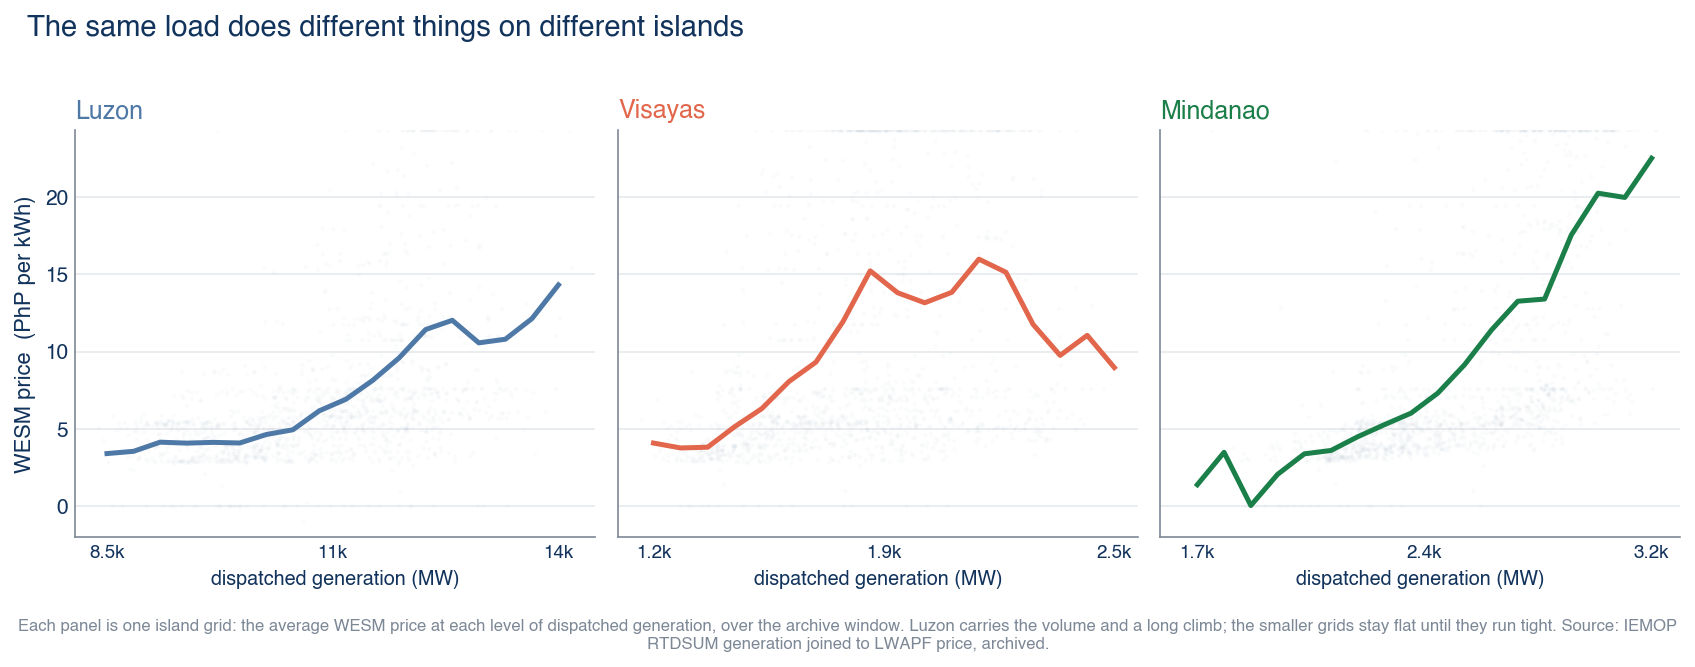
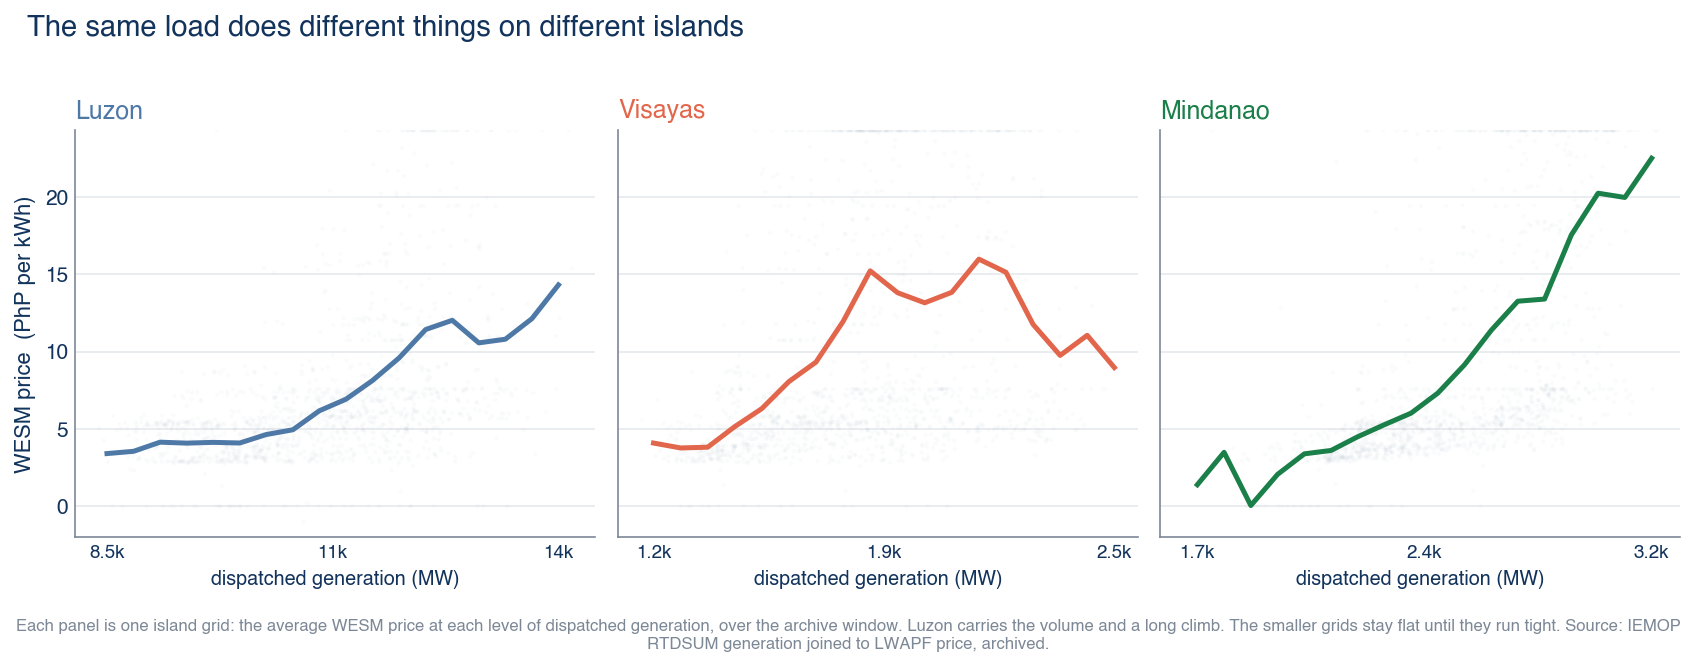
Deslop figure captions: split semicolons into sentences, re-render

Changed region(s): [[0.0, 0.9295, 1.0, 0.9595]]

diff --git a/scripts/price_shape_gif.py b/scripts/price_shape_gif.py
@@ -79,7 +79,7 @@ def main():
                      fontsize=13.5, color=vz.NAVY, loc="left")
         vz.tufte(ax, grid="y")
         vz.caption(fig,
-                   "Each faint dot is one five-minute interval on the Luzon grid; the "
+                   "Each faint dot is one five-minute interval on the Luzon grid. The "
                    "line is the average price at each load. A data center adds the "
                    "same megawatts every hour, but when the grid has room the price "
                    f"hardly notices and when it is full the same {DC_MW} MW shoves it "

diff --git a/scripts/sual_margin_gif.py b/scripts/sual_margin_gif.py
@@ -75,7 +75,7 @@ def main():
         vz.caption(fig,
                    "Sual's two 647 MW units are the largest single contingencies on "
                    "the Luzon grid. This subtracts a unit from IEMOP's published May "
-                   "2026 margin as arithmetic, not a dispatch simulation; the margin "
+                   "2026 margin as arithmetic, not a dispatch simulation. The margin "
                    "itself moves daily. Source: IEMOP May 2026 report.", y=-0.03)
         fig.tight_layout()
         fig.savefig(os.path.join(FRAMES, f"f{fi:03d}.png"), dpi=110,

diff --git a/scripts/supply_demand_day_gif.py b/scripts/supply_demand_day_gif.py
@@ -88,7 +88,7 @@ def main():
         ax2.spines["top"].set_visible(False)
         vz.caption(fig,
                    "One Luzon day from the archive. The band is generation meeting "
-                   "demand through the day; the coral line is the price. The price "
+                   "demand through the day. The coral line is the price. The price "
                    "stays low while there is room and climbs into the evening peak. "
                    "Source: IEMOP RTDSUM generation and LWAPF price, archived.",
                    y=-0.05)

diff --git a/scripts/small_multiples.py b/scripts/small_multiples.py
@@ -59,7 +59,7 @@ def main():
     vz.caption(fig,
                "Each panel is one island grid: the average WESM price at each level "
                "of dispatched generation, over the archive window. Luzon carries the "
-               "volume and a long climb; the smaller grids stay flat until they run "
+               "volume and a long climb. The smaller grids stay flat until they run "
                "tight. Source: IEMOP RTDSUM generation joined to LWAPF price, archived.",
                y=-0.06)
     fig.tight_layout()

diff --git a/scripts/og_card.py b/scripts/og_card.py
@@ -63,8 +63,8 @@ def render(path, w_in, h_in, dpi):
     ax.set_xlim(0, len(dates) + 12)
     ax.set_ylabel("PhP / kWh", fontsize=10)
     ax.set_xticks([])
-    ax.set_title(f'{C["distinct_equipment"]} named lines hit a limit in 90 days; '
-                 "the market prices the geography daily",
+    ax.set_title(f'{C["distinct_equipment"]} named lines hit a limit in 90 days, '
+                 "and the market prices the geography daily",
                  fontsize=12, color=vz.NAVY, loc="left")
     vz.tufte(ax, grid="y")
 

diff --git a/scripts/price_spread_gif.py b/scripts/price_spread_gif.py
@@ -71,7 +71,7 @@ def main():
         vz.caption(fig,
                    "Each line is one island grid's daily average of IEMOP's "
                    "load-weighted five-minute prices. Under administered pricing the "
-                   "grids move together; once the market reopens the links between "
+                   "grids move together. Once the market reopens the links between "
                    "them separate the prices. Source: IEMOP LWAPF, archived.",
                    y=-0.04)
         fig.tight_layout()

diff --git a/scripts/story_montage.py b/scripts/story_montage.py
@@ -95,7 +95,7 @@ def main():
                font=tf, fill=NAVY)
         d.text((PAD + 4, 60),
                "Built from the market operator's own public files. The choke points "
-               "already bind daily; the market prices them.",
+               "already bind daily, and the market prices them.",
                font=sf, fill=MUTE)
         for i, (seq, (_, label)) in enumerate(zip(seqs, PANELS)):
             r, c = divmod(i, COLS)
